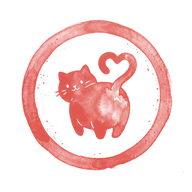
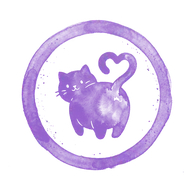
piano-pet: ねこスタンプを10種に絞り、3種を描き直して5色×2に配色し直す (#414)
* piano-pet: ねこスタンプを10種に絞り、3種を描き直して5色×2に配色し直す

- ねんね・ばんざい・かおあらい・おんぷとダンス・ピアノをひく・おすわりを削除
- ねこパンチ（ストレート）・ジャンプ（飛び猫）・なべねこ（まるくなる→土鍋）を描き直し
- 残る10種を5色×2種に配り直し、ユニットテストで「どの色も2種」を固定
- features.md の絵柄の表・色・設計判断・アセットの実測値を更新

Closes #413

* piano-pet: ねこパンチを猫じゃらしに手を出す絵柄にする

右端から差し出された猫じゃらしを前足で叩く構図に描き直す。
茎は輪の外周で切り、他の絵柄と輪の大きさをそろえる。

Refs #413

---------

Changed region(s): [[0.0938, 0.0938, 0.9062, 0.9062], [0.2812, 0.25, 0.7188, 0.75]]

diff --git a/apps/piano-pet/js/stamp-book.js b/apps/piano-pet/js/stamp-book.js
@@ -7,25 +7,19 @@ export const CARD_MAX = 60;
 export const REWARD_EMOJIS = ['🎁', '🍦', '🧸', '📚', '🎡', '🍰', '🚗', '🦁'];
 export const REWARD_MAX_LEN = 20;
 
-// 猫の姿16種（色は姿ごとに固定）。絵は img/stamp/{id}.webp に色ごと焼き込み済み（#410）。
-// STAMP_INKS は画像の色の記録で描画には使わない。並び順は designForDate の結果を決めるので変えない
+// 猫の姿10種（色は姿ごとに固定・5色×2）。絵は img/stamp/{id}.webp に色ごと焼き込み済み（#410）。
+// STAMP_INKS は画像の色の記録で描画には使わない。並び順は designForDate の結果を決める
 export const STAMP_INKS = { red: '#e0574f', blue: '#3d86d4', green: '#3a9e68', purple: '#9563cc', brown: '#b5793f' };
 export const STAMP_DESIGNS = [
-  ['nenne', 'ねんね', 'blue'],
   ['nobi', 'のび〜', 'green'],
-  ['piano', 'ピアノ', 'purple'],
-  ['sakana', 'おさかな', 'brown'],
+  ['sakana', 'おさかな', 'blue'],
   ['keito', 'けいとだま', 'brown'],
   ['hako', 'はこ', 'brown'],
-  ['banzai', 'ばんざい', 'red'],
   ['ojigi', 'おじぎ', 'purple'],
   ['fumifumi', 'ふみふみ', 'green'],
-  ['marui', 'まるくなる', 'blue'],
+  ['nabe', 'なべねこ', 'blue'],
   ['punch', 'ねこパンチ', 'red'],
-  ['onpu', 'おんぷ', 'purple'],
-  ['kaoarai', 'かおあらい', 'blue'],
-  ['osuwari', 'おすわり', 'green'],
-  ['heart', 'しっぽハート', 'red'],
+  ['heart', 'しっぽハート', 'purple'],
   ['jump', 'ジャンプ', 'red'],
 ].map(([id, name, ink]) => ({ id, name, ink }));
 
@@ -50,7 +44,7 @@ function rng(seed) {
   };
 }
 
-// 日付→絵柄（保存しない）。16日ごとのブロック内では同じ絵が出ない
+// 日付→絵柄（保存しない）。種類数ぶんの日ごとのブロック内では同じ絵が出ない
 export function designForDate(date) {
   const n = dayNumber(date);
   const N = STAMP_DESIGNS.length;

diff --git a/apps/piano-pet/tests/stamp-book.test.js b/apps/piano-pet/tests/stamp-book.test.js
@@ -129,9 +129,10 @@ describe('カードの作成・ごほうび・持ち越し（#409）', () => {
 });
 
 describe('絵柄（#409）', () => {
-  it('16種・色は5色のどれか', () => {
-    expect(STAMP_DESIGNS).toHaveLength(16);
-    expect(new Set(STAMP_DESIGNS.map((d) => d.ink)).size).toBe(5);
+  it('10種・5色を2種ずつ', () => {
+    expect(STAMP_DESIGNS).toHaveLength(10);
+    const count = (ink) => STAMP_DESIGNS.filter((d) => d.ink === ink).length;
+    for (const ink of Object.keys(STAMP_INKS)) expect(count(ink), ink).toBe(2);
     for (const d of STAMP_DESIGNS) expect(STAMP_INKS[d.ink]).toBeTruthy();
   });
 
@@ -141,12 +142,12 @@ describe('絵柄（#409）', () => {
     }
   });
 
-  it('日付だけで決まり、16日のまとまりの中では同じ絵が出ない', () => {
+  it('日付だけで決まり、10日のまとまりの中では同じ絵が出ない', () => {
     expect(designForDate('2026-11-03')).toBe(designForDate('2026-11-03'));
     const base = Date.UTC(2026, 0, 1) / 86400000;
-    const start = Math.ceil(base / 16) * 16;
-    const ids = Array.from({ length: 16 }, (_, i) => designForDate(new Date((start + i) * 86400000).toISOString().slice(0, 10)).id);
-    expect(new Set(ids).size).toBe(16);
+    const start = Math.ceil(base / 10) * 10;
+    const ids = Array.from({ length: 10 }, (_, i) => designForDate(new Date((start + i) * 86400000).toISOString().slice(0, 10)).id);
+    expect(new Set(ids).size).toBe(10);
   });
 });
 

diff --git a/apps/piano-pet/sw.js b/apps/piano-pet/sw.js
@@ -1,14 +1,14 @@
 // ===== Service Worker（ネットワーク優先＋オフラインフォールバック） =====
-const CACHE = 'piano-pet-780349bd';
+const CACHE = 'piano-pet-43549222';
 
 const APP_SHELL = [
   './',
   './index.html',
-  './css/cat.css?v=780349bd',
-  './css/style.css?v=780349bd',
+  './css/cat.css?v=43549222',
+  './css/style.css?v=43549222',
   './js/account.js',
   './js/analytics.js',
-  './js/app.js?v=780349bd',
+  './js/app.js?v=43549222',
   './js/backup.js',
   './js/badges.js',
   './js/cat-image.js',
@@ -135,21 +135,15 @@ const APP_SHELL = [
   './img/cat/scene/tree.webp',
   './img/cat/scene/window.webp',
   './img/cat/scene/yarnBall.webp',
-  './img/stamp/banzai.webp',
   './img/stamp/fumifumi.webp',
   './img/stamp/hako.webp',
   './img/stamp/heart.webp',
   './img/stamp/jump.webp',
-  './img/stamp/kaoarai.webp',
   './img/stamp/keito.webp',
-  './img/stamp/marui.webp',
-  './img/stamp/nenne.webp',
+  './img/stamp/nabe.webp',
   './img/stamp/nobi.webp',
   './img/stamp/ojigi.webp',
-  './img/stamp/onpu.webp',
-  './img/stamp/osuwari.webp',
   './img/stamp/paw.webp',
-  './img/stamp/piano.webp',
   './img/stamp/punch.webp',
   './img/stamp/sakana.webp',
   './sounds/hiss1.mp3',

diff --git a/apps/piano-pet/index.html b/apps/piano-pet/index.html
@@ -16,8 +16,8 @@
       if (t === 'dark' || t === 'light') document.documentElement.dataset.theme = t;
     } catch (e) {}
   </script>
-  <link rel="stylesheet" href="css/style.css?v=780349bd">
-  <link rel="stylesheet" href="css/cat.css?v=780349bd">
+  <link rel="stylesheet" href="css/style.css?v=43549222">
+  <link rel="stylesheet" href="css/cat.css?v=43549222">
   <link href="https://fonts.googleapis.com/css2?family=Mochiy+Pop+One&family=Noto+Sans+JP:wght@400;500;700&display=swap" rel="stylesheet">
 </head>
 <body>
@@ -538,6 +538,6 @@
 
   </div>
 
-  <script type="module" src="js/app.js?v=780349bd"></script>
+  <script type="module" src="js/app.js?v=43549222"></script>
 </body>
 </html>
